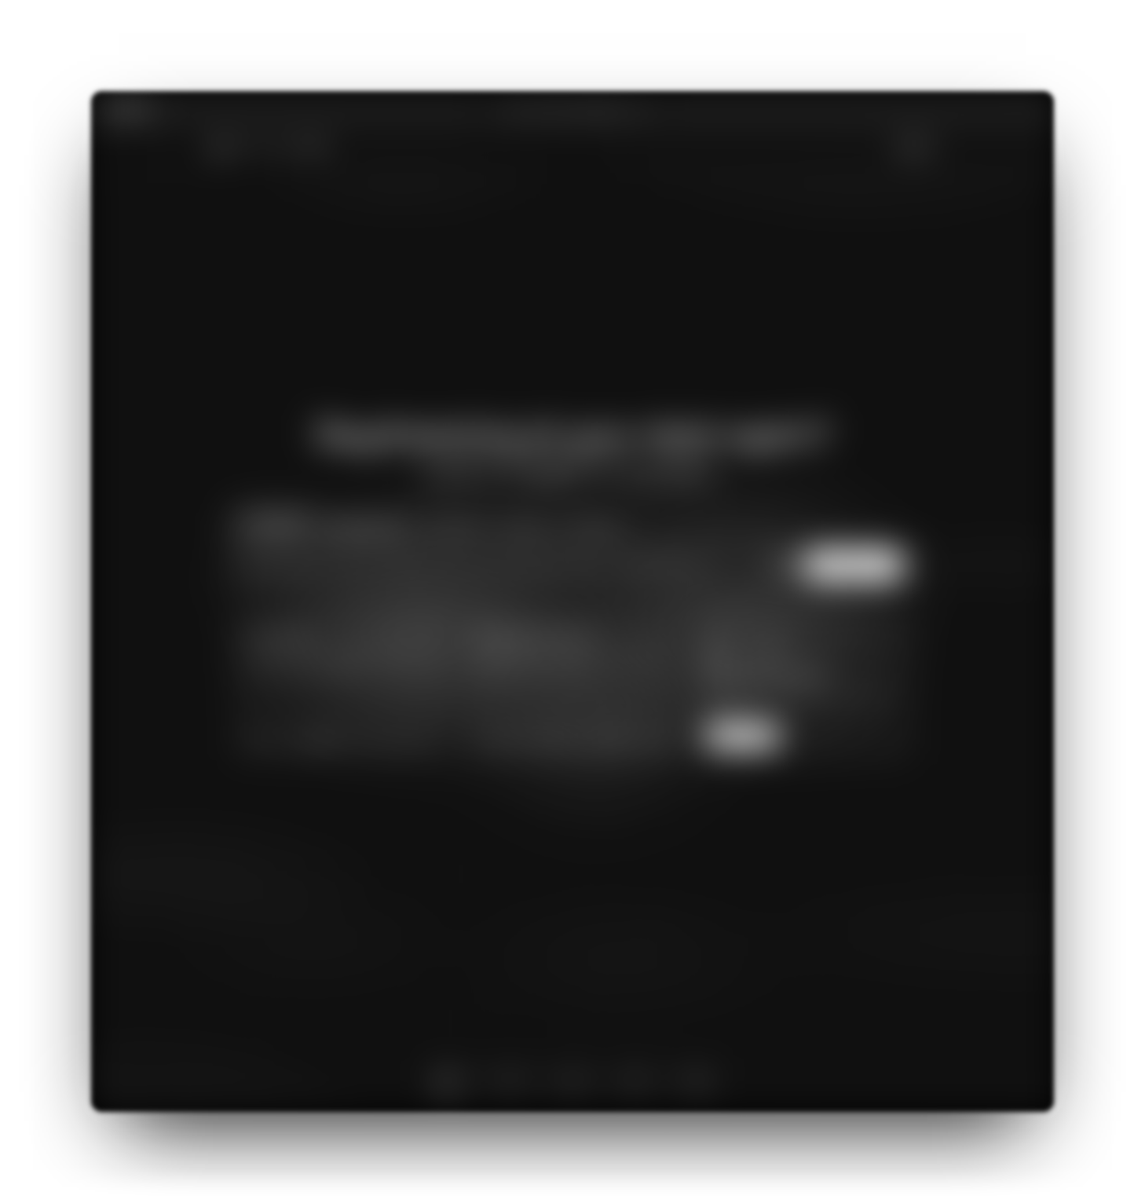
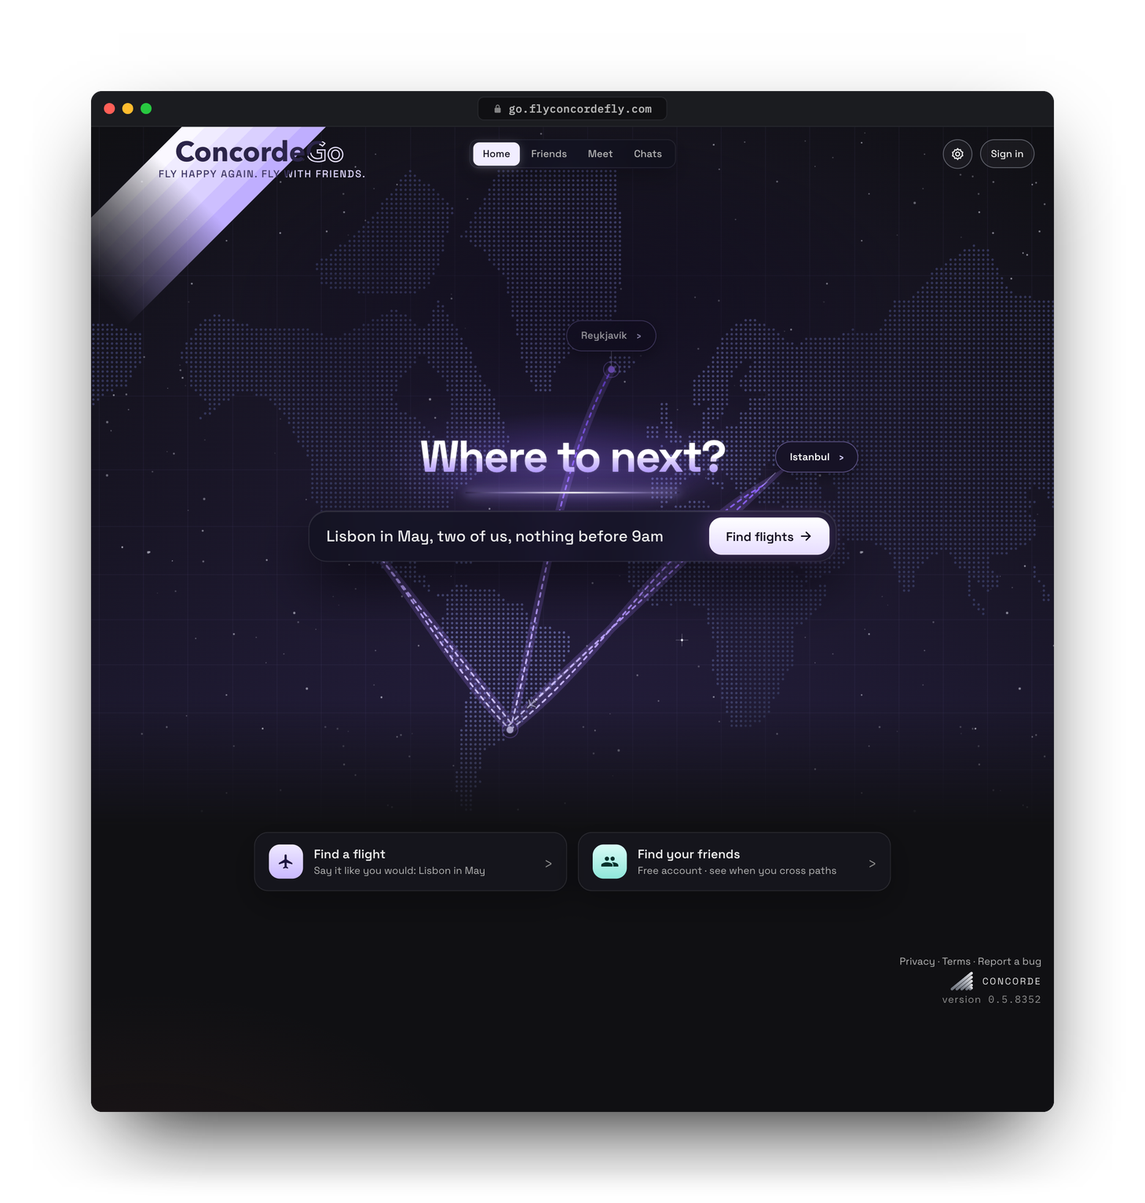
ConcordeGo is back on the site: the full card, with a real picture, what it does and its release notes
It was greyed out as coming soon since 10 Oct; it now sits above Lite with
Open ConcordeGo, the live version and its notes. The window is a fresh
signed-out capture of today's Home. make-shots.py now passes
--use-mock-keychain and a throwaway profile to Chrome.

diff --git a/index.html b/index.html
@@ -29,14 +29,14 @@
 <meta property="og:image:alt" content="The Concorde delta wing above the CONCORDE wordmark and the line Fly Concorde, Fly., with ConcordeAI, ConcordeVPN and ConcordeGo beneath.">
 <meta name="twitter:card" content="summary_large_image">
 <!-- What search engines read about the site: its name, and one entry per app.
-     Plain facts only; keep it true to the page (ConcordeGo proper is coming
-     soon, so only Lite is listed). -->
+     Plain facts only; keep it true to the page. -->
 <script type="application/ld+json">
 {"@context":"https://schema.org","@graph":[
- {"@type":"WebSite","@id":"https://flyconcordefly.com/#site","url":"https://flyconcordefly.com/","name":"Concorde","alternateName":["Fly Concorde Fly","flyconcordefly"],"description":"Concorde makes ConcordeAI, ConcordeVPN and ConcordeGo Lite.","publisher":{"@id":"https://flyconcordefly.com/#org"}},
+ {"@type":"WebSite","@id":"https://flyconcordefly.com/#site","url":"https://flyconcordefly.com/","name":"Concorde","alternateName":["Fly Concorde Fly","flyconcordefly"],"description":"Concorde makes ConcordeAI, ConcordeVPN and ConcordeGo.","publisher":{"@id":"https://flyconcordefly.com/#org"}},
  {"@type":"Organization","@id":"https://flyconcordefly.com/#org","name":"Concorde","url":"https://flyconcordefly.com/","logo":"https://flyconcordefly.com/apple-touch-icon.png","slogan":"Fly Concorde, Fly."},
  {"@type":"SoftwareApplication","name":"ConcordeAI","url":"https://flyconcordefly.com/#concordeai","applicationCategory":"UtilitiesApplication","operatingSystem":"macOS, Windows","description":"An AI chat app that runs on your own Mac or PC.","offers":{"@type":"Offer","price":"0","priceCurrency":"USD"},"publisher":{"@id":"https://flyconcordefly.com/#org"}},
  {"@type":"SoftwareApplication","name":"ConcordeVPN","url":"https://flyconcordefly.com/#concordevpn","applicationCategory":"SecurityApplication","operatingSystem":"macOS","description":"A menu-bar VPN client for your own exit node.","offers":{"@type":"Offer","price":"0","priceCurrency":"USD"},"publisher":{"@id":"https://flyconcordefly.com/#org"}},
+ {"@type":"WebApplication","name":"ConcordeGo","url":"https://go.flyconcordefly.com/","applicationCategory":"TravelApplication","operatingSystem":"Any browser","description":"Flight search that ranks flights by what the trip really costs, with friends and meet-ups along the way.","offers":{"@type":"Offer","price":"0","priceCurrency":"USD"},"publisher":{"@id":"https://flyconcordefly.com/#org"}},
  {"@type":"WebApplication","name":"ConcordeGo Lite","url":"https://go.flyconcordefly.com/lite","applicationCategory":"TravelApplication","operatingSystem":"Any browser","description":"Say where you need to be and get the earliest and the cheapest flights you can still make.","offers":{"@type":"Offer","price":"0","priceCurrency":"USD"},"publisher":{"@id":"https://flyconcordefly.com/#org"}}
 ]}
 </script>
@@ -1038,6 +1038,11 @@ footer .right{margin-left:auto;display:flex;gap:20px;flex-wrap:wrap}
                   <span class="file">ConcordeAI-7.0.0-Windows.zip</span>
                   <svg class="arw" width="11" height="11" viewBox="0 0 12 12" fill="none" aria-hidden="true"><path d="M6 1v9M2.4 6.6 6 10.2l3.6-3.6" stroke="currentColor" stroke-width="1.2" stroke-linecap="round" stroke-linejoin="round"/></svg>
                 </a>
+                <a class="btn" href="https://github.com/bigmillz/concordeai/releases/download/v280/ConcordeAI-7.0.0-x64.msi">
+                  <span class="os">Win msi</span>
+                  <span class="file">ConcordeAI-7.0.0-x64.msi</span>
+                  <svg class="arw" width="11" height="11" viewBox="0 0 12 12" fill="none" aria-hidden="true"><path d="M6 1v9M2.4 6.6 6 10.2l3.6-3.6" stroke="currentColor" stroke-width="1.2" stroke-linecap="round" stroke-linejoin="round"/></svg>
+                </a>
               </div>
               <p class="chan-note">First open on a Mac: System Settings &rsaquo; Privacy &amp; Security &rsaquo; Open Anyway. On Windows: More info &rsaquo; Run anyway.</p>
               <details class="sum notes">
@@ -1052,8 +1057,8 @@ footer .right{margin-left:auto;display:flex;gap:20px;flex-wrap:wrap}
               <div class="chan-top">
                 <span class="chan-name">Nightly</span>
                 <span class="chan-ver">7.0</span>
-                <span class="chan-commit" data-nightly-commit="ai" data-nightly-ver="7.0" data-commit-base="https://github.com/bigmillz/concordeai/commit/">build <a href="https://github.com/bigmillz/concordeai/commit/a5e9d79">a5e9d79</a></span>
-                <span class="chan-date">Built <time datetime="2026-11-10" data-nightly-date="ai">10 Nov 2026</time></span>
+                <span class="chan-commit" data-nightly-commit="ai" data-nightly-ver="7.0" data-commit-base="https://github.com/bigmillz/concordeai/commit/">build <a href="https://github.com/bigmillz/concordeai/commit/0196896">0196896</a></span>
+                <span class="chan-date">Built <time datetime="2026-11-11" data-nightly-date="ai">11 Nov 2026</time></span>
               </div>
               <div class="btns">
                 <a class="btn" href="https://github.com/bigmillz/concordeai/releases/download/nightly/ConcordeAI-7.0.0.dmg">
@@ -1070,7 +1075,7 @@ footer .right{margin-left:auto;display:flex;gap:20px;flex-wrap:wrap}
               <details class="sum notes">
                 <summary>Release notes</summary>
                 <div class="sum-body">
-<ul><li><b>Ultra</b> — switching to Ultra lands with a light rush, an edge flash and a star burst, and the slider knob stays put</li><li><b>Send button</b> — calmer, with no rings or hover glows and a crisp press</li><li><b>Backdrop</b> — the video fades through its loop without a visible seam, at the same pace on 60 Hz and 120 Hz displays</li><li class="more">Plus smaller fixes and polish &mdash; <a href="https://github.com/bigmillz/concordeai/releases">full notes on GitHub</a></li></ul>
+<ul><li>Gauntlet: switched back on, Pro seats exactly the server's models it seated before</li><li>NOTES 6b555: the header in one row, Settings and updates in it</li><li>The Horizon home bare: the recent-chat rows under the composer removed, code and all</li><li>Merge fluent-1 (16e75f8) into beta-3: NOTES keeps 6b555 and 6b570</li><li class="more">Plus 4 more changes &mdash; <a href="https://github.com/bigmillz/concordeai/releases">full notes on GitHub</a></li></ul>
                 </div>
               </details>
             </div>
@@ -1188,6 +1193,106 @@ footer .right{margin-left:auto;display:flex;gap:20px;flex-wrap:wrap}
           </div>
         </article>
 
+        <!-- ============ CARD: CONCORDEGO ============
+             Not a download: it runs at go.flyconcordefly.com. Hand-written,
+             except its Release notes list: sync-releases.py writes that
+             (between the releases:go markers, which stay at twenty spaces of
+             indent) from the builds go.flyconcordefly.com/changes lists,
+             summarized in the Action like the apps'.
+             Keep that list the card's only bare <ul> and its box the only
+             Release notes box: the script refuses a second one.
+             Its "BETA" is a .chan-ver, never a chan-name span: the script
+             refuses to write a page with a channel name outside the AI and
+             VPN markers.
+             The version and date are what go.flyconcordefly.com/version says
+             it is running: tools/sync-releases.py writes them here on every
+             sync, and worker.js rewrites [data-go-version] and
+             time[data-go-date] on every request (cached 5 minutes).
+             Back from "coming soon" on 2026-11-11 (per Pat: "push this to our
+             website"). The window is tools/windows/go-window.html round a
+             signed-out capture of the live Home; tools/README.md says how to
+             retake it. -->
+        <article class="card reveal" id="concordego" aria-labelledby="go-name">
+          <div class="stage">
+            <div class="stage-in">
+              <a class="shot" href="assets/shot-go.png">
+                <picture>
+                  <source srcset="assets/shot-go.webp" type="image/webp">
+                  <img src="assets/shot-go.png" width="1458" height="1532" loading="lazy" decoding="async"
+                       alt="ConcordeGo in a browser, in its dark theme: a world map with trip ideas, a search box with Lisbon in May, two of us, nothing before 9am typed in plain words, and tabs for Home, Friends, Meet and Chats.">
+                </picture>
+                <span class="visually-hidden">Enlarge</span>
+              </a>
+              <p class="how"><span class="label">In your browser</span>No download, no install.<br>Free: 5 searches a day, or 30 with a free&nbsp;account.</p>
+            </div>
+          </div>
+
+          <div class="card-main">
+            <div class="card-head">
+              <div class="row">
+                <svg class="wing" viewBox="2 2.3 19.6 16.4" aria-hidden="true" focusable="false"><g>
+                  <line x1="3.2" y1="17.5" x2="20.4" y2="3.5"/>
+                  <line x1="7.5" y1="17.5" x2="20.4" y2="7"/>
+                  <line x1="11.8" y1="17.5" x2="20.4" y2="10.5"/>
+                  <line x1="16.1" y1="17.5" x2="20.4" y2="14"/>
+                  <line x1="19.3" y1="17.5" x2="20.4" y2="16.6"/></g></svg>
+                <h3 id="go-name" class="lockup"><span class="mark-txt">Concorde<span class="tld">Go</span></span><video class="mark-hdr" data-mark="go" muted playsinline loop preload="none" aria-hidden="true"></video></h3>
+                <span class="chip label">Beta</span>
+              </div>
+              <p class="desc">Fly happy again. Fly with friends. Flights ranked by what the trip really costs, and the people you know along the way.</p>
+              <div class="plats label">
+                <span>Any browser</span>
+                <span>Desktop + phone</span>
+              </div>
+            </div>
+
+            <ul class="feats">
+              <li>
+                <span class="n">01</span>
+                <div><b>Say it in plain words</b><span class="d">Type or say the trip the way you would tell a friend: &ldquo;Lisbon in May, two of us, nothing before 9am&rdquo;.</span></div>
+              </li>
+              <li>
+                <span class="n">02</span>
+                <div><b>The real price, graded</b><span class="d">Every flight gets a grade and an all-in price: the ticket plus the bags the fare leaves out.</span></div>
+              </li>
+              <li>
+                <span class="n">03</span>
+                <div><b>Friends and meet-ups</b><span class="d">See when friends cross your path, message them, and meet up at the airports on your trip.</span></div>
+              </li>
+              <li>
+                <span class="n">04</span>
+                <div><b>Your trips, on the day</b><span class="d">Forward a booking email and it becomes a trip, with live flight status, a leave-by reminder and the Flight Fixer when plans change.</span></div>
+              </li>
+            </ul>
+
+            <div class="dl go-dl">
+              <div class="chan">
+                <div class="chan-top">
+                  <span class="chan-ver">BETA</span>
+                  <span class="chan-commit" data-go-vline>version <span data-go-version>0.5.8352</span></span>
+                  <span class="chan-date">Updated <time datetime="2026-11-10" data-go-date>10 Nov 2026</time></span>
+                </div>
+                <div class="btns">
+                  <a class="btn open" href="https://go.flyconcordefly.com/" target="_blank" rel="noopener">
+                    <span class="os">Open ConcordeGo</span>
+                    <span class="file">go.flyconcordefly.com</span>
+                    <svg class="arw" width="11" height="11" viewBox="0 0 12 12" fill="none" aria-hidden="true"><path d="M3 9 9.2 2.8M4 2.6h5.4V8" stroke="currentColor" stroke-width="1.2" stroke-linecap="round" stroke-linejoin="round"/></svg>
+                    <span class="visually-hidden">(opens in a new tab)</span>
+                  </a>
+                </div>
+                <details class="sum notes">
+                  <summary>Release notes</summary>
+                  <div class="sum-body">
+                    <!-- releases:go -->
+<ul><li>A simpler Home with only your trips and what's new by default, and tabs that slide</li><li>A new desktop Home built around a live map of your trip and your friends, in testing; results now lead with "Top pick"</li><li>An optional person check on sign-in and searches; Confirm before adding a friend or joining a group from a link</li><li>Keep your boarding pass in your trip: add a screenshot, photo or PDF</li><li class="more">Plus more changes</li></ul>
+                    <!-- /releases:go -->
+                  </div>
+                </details>
+              </div>
+            </div>
+          </div>
+        </article>
+
         <!-- ============ CARD: CONCORDEGO LITE ============
              ConcordeGo's quick page, go.flyconcordefly.com/lite: part of the
              same app, so the same build, version and date (the Worker and
@@ -1271,79 +1376,6 @@ footer .right{margin-left:auto;display:flex;gap:20px;flex-wrap:wrap}
                     <span class="visually-hidden">(opens in a new tab)</span>
                   </a>
                 </div>
-              </div>
-            </div>
-          </div>
-        </article>
-
-        <!-- ============ CARD: CONCORDEGO (coming soon) ============
-             The full ConcordeGo is being rebuilt behind closed doors (Pat,
-             2026-10-10: blur it and gray it out so nobody can lift the idea);
-             ConcordeGo Lite, above, stays available. Nothing real is on this
-             card on purpose: the picture is a window image blurred into the
-             pixels (assets/shot-go.*, no longer made by make-shots.py; the
-             readable capture is out of the tree), the feature rows are empty
-             bars, and the notes list is a fixed "Coming soon" line, written
-             by tools/sync-releases.py while GO_COMING_SOON is set there. CSS
-             blur alone would leave the words in the page source, so do not
-             "restore" the old copy under a filter. The script still wants
-             the releases:go markers, one notes list and one Release notes
-             box inside this card, so they stay. -->
-        <article class="card reveal soon-card" id="concordego" aria-labelledby="go-name">
-          <div class="soon-badge" role="note"><span class="label">Coming soon</span></div>
-          <div class="stage">
-            <div class="stage-in">
-              <div class="shot shot-soon" aria-hidden="true">
-                <picture>
-                  <source srcset="assets/shot-go.webp" type="image/webp">
-                  <img src="assets/shot-go.png" width="1458" height="1532" loading="lazy" decoding="async" alt="">
-                </picture>
-              </div>
-              <p class="how" aria-hidden="true"><span class="label">In your browser</span><span class="bar"></span></p>
-            </div>
-          </div>
-
-          <div class="card-main">
-            <div class="card-head">
-              <div class="row">
-                <svg class="wing" viewBox="2 2.3 19.6 16.4" aria-hidden="true" focusable="false"><g>
-                  <line x1="3.2" y1="17.5" x2="20.4" y2="3.5"/>
-                  <line x1="7.5" y1="17.5" x2="20.4" y2="7"/>
-                  <line x1="11.8" y1="17.5" x2="20.4" y2="10.5"/>
-                  <line x1="16.1" y1="17.5" x2="20.4" y2="14"/>
-                  <line x1="19.3" y1="17.5" x2="20.4" y2="16.6"/></g></svg>
-                <h3 id="go-name" class="lockup"><span class="mark-txt">Concorde<span class="tld">Go</span></span><video class="mark-hdr" data-mark="go" muted playsinline loop preload="none" aria-hidden="true"></video></h3>
-                <span class="chip label">Coming soon</span>
-              </div>
-              <p class="desc">The full ConcordeGo is coming soon. ConcordeGo Lite, above, is available now.</p>
-            </div>
-
-            <ul class="feats" aria-hidden="true">
-              <li><span class="n">01</span><div><b class="bar"></b><span class="bar d"></span><span class="bar d s"></span></div></li>
-              <li><span class="n">02</span><div><b class="bar"></b><span class="bar d"></span><span class="bar d s"></span></div></li>
-              <li><span class="n">03</span><div><b class="bar"></b><span class="bar d"></span><span class="bar d s"></span></div></li>
-              <li><span class="n">04</span><div><b class="bar"></b><span class="bar d"></span><span class="bar d s"></span></div></li>
-            </ul>
-
-            <div class="dl go-dl" aria-hidden="true">
-              <div class="chan">
-                <div class="chan-top">
-                  <span class="chan-ver">SOON</span>
-                </div>
-                <div class="btns">
-                  <span class="btn open">
-                    <span class="os">Open ConcordeGo</span>
-                    <span class="file">coming soon</span>
-                  </span>
-                </div>
-                <details class="sum notes">
-                  <summary>Release notes</summary>
-                  <div class="sum-body">
-                    <!-- releases:go -->
-<ul><li class="more">Coming soon</li></ul>
-                    <!-- /releases:go -->
-                  </div>
-                </details>
               </div>
             </div>
           </div>

diff --git a/tools/windows/go-window.html b/tools/windows/go-window.html
@@ -1,0 +1,29 @@
+<!doctype html><html><head><meta charset="utf-8">
+<title>ConcordeGo Window</title>
+<!-- A browser frame round go-capture.png, a signed-out capture of the live
+     ConcordeGo Home (go.flyconcordefly.com) in its dark theme, with a trip typed
+     into the search box (typed, never searched). The same frame as
+     lite-window.html; tools/README.md says how to retake the capture.
+     shot-go stays 1458x1532. -->
+<link href="https://fonts.googleapis.com/css2?family=IBM+Plex+Mono:wght@400;500&family=Space+Grotesk:wght@400;500&display=swap" rel="stylesheet">
+<style>
+html,body{margin:0;background:transparent}
+body{display:grid;place-items:center;min-height:100vh;padding:40px;box-sizing:border-box}
+.win{width:1050px;height:1113px;border-radius:12px;overflow:hidden;display:flex;flex-direction:column;
+  background:#101013;box-shadow:0 40px 90px -30px rgba(0,0,0,.95),0 0 0 1px rgba(255,255,255,.04)}
+.titlebar{height:38px;flex:0 0 38px;background:#1b1c20;display:flex;align-items:center;padding:0 14px;position:relative;
+  border-bottom:1px solid #26272c}
+.lights{display:flex;gap:8px}.lights i{width:12px;height:12px;border-radius:50%;display:block}
+.l1{background:#ff5f57}.l2{background:#febc2e}.l3{background:#28c840}
+/* a browser, not an app: the URL is the title */
+.url{position:absolute;left:50%;transform:translateX(-50%);display:flex;align-items:center;gap:7px;
+  height:24px;padding:0 16px;border-radius:7px;background:#101013;border:1px solid #26272c;
+  font:500 12px/1 'IBM Plex Mono',ui-monospace,monospace;color:#b4b4b4;letter-spacing:.02em}
+.url svg{width:10px;height:10px;opacity:.7}
+.page{flex:1;min-height:0;background:#101013 url(go-capture.png) top center/1050px auto no-repeat}
+</style></head><body>
+<div class="win">
+  <div class="titlebar"><div class="lights"><i class="l1"></i><i class="l2"></i><i class="l3"></i></div>
+    <div class="url"><svg viewBox="0 0 10 12" fill="none"><rect x="1" y="5" width="8" height="6.5" rx="1.2" fill="#b4b4b4"/><path d="M3 5V3.5a2 2 0 0 1 4 0V5" stroke="#b4b4b4" stroke-width="1.2"/></svg>go.flyconcordefly.com</div></div>
+  <div class="page"></div>
+</div></body></html>

diff --git a/tools/make-shots.py b/tools/make-shots.py
@@ -52,6 +52,7 @@ OPAQUE = 250     # alpha at or above this is window; below is shadow or air
 SOURCES = {
     "ai":  ("ai-window.html",  (1400, 1520)),
     "vpn": ("vpn-window.html", (780, 960)),
+    "go":  ("go-window.html",  (1470, 1600)),   # a browser frame round go-capture.png
     "lite": ("lite-window.html", (1470, 1600)),  # the same frame round lite-capture.png
 }
 
@@ -61,6 +62,7 @@ def capture(html, size, out):
     # without it the window silently renders in a fallback face.
     r = subprocess.run([
         CHROME, "--headless=new", "--disable-gpu", "--hide-scrollbars",
+        "--use-mock-keychain", "--user-data-dir=%s" % os.path.join(os.path.dirname(out), "profile"),
         "--force-device-scale-factor=2", "--default-background-color=00000000",
         "--virtual-time-budget=9000", "--screenshot=%s" % out,
         "--window-size=%d,%d" % size, "file://%s" % html,

diff --git a/tools/sync-releases.py b/tools/sync-releases.py
@@ -549,7 +549,7 @@ def cached_notes(repo, kind, items, link=True):
 # card's notes are a fixed "Coming soon" line, and only changes that name Lite
 # go into the store, the summaries and What's new: nothing about the rest is
 # written into this public repo. Turn it off to bring the full card's notes back.
-GO_COMING_SOON = True
+GO_COMING_SOON = False   # the full card came back on 2026-11-11 (per Pat)
 GO_SOON_NOTES = '<ul><li class="more">Coming soon</li></ul>'
 GO_LITE_CHANGE = re.compile(r"\blite\b", re.I)
 

diff --git a/tools/README.md b/tools/README.md
@@ -298,8 +298,8 @@ label is out of date.
 ## The product windows
 
 Each product card shows one window: `windows/ai-window.html`,
-`windows/vpn-window.html` and `windows/lite-window.html` (ConcordeGo's own
-window is retired while it is coming soon, below). The first two are
+`windows/vpn-window.html`, `windows/go-window.html` and
+`windows/lite-window.html`. The first two are
 the apps' own UIs, rebuilt as static HTML from each app's real page (its
 markup and its own CSS rules, with fake data) rather than screenshots of
 whatever happened to be on screen. They are HTML so they stay crisp at any
@@ -312,9 +312,8 @@ window is the main window as ConcordeVPN 1.5 draws it, 460x590: connected
 through New York, Balanced, with the speed card and the Mode and Exit rows. It
 is a capture of the app's real page (see "Retaking `windows/vpn-capture.png`").
 ConcordeGo is a website, so its window is a plain browser frame round a
-capture of the live app. ConcordeGo Lite's (the address bar reads
-go.flyconcordefly.com/lite) is `windows/lite-capture.png`; the full ConcordeGo's
-is retired for now (below).
+capture of the live app. ConcordeGo's is `windows/go-capture.png` and ConcordeGo Lite's (the address
+bar reads go.flyconcordefly.com/lite) is `windows/lite-capture.png`.
 
 Three rules they exist to enforce:
 
@@ -424,21 +423,27 @@ and in `SOURCES` (the capture window, 960). Then crop the screenshot to
 The page's top 32px is the app's own empty titlebar strip; the window file
 draws the real chrome over it.
 
-### The ConcordeGo card is "coming soon" (2026-10-10)
+### Retaking `windows/go-capture.png`
 
-The full ConcordeGo is hidden on purpose (Pat: blur and gray it so nobody can
-lift the idea; ConcordeGo Lite stays available). `assets/shot-go.png/.webp`
-is now a window image with a heavy gray blur baked into the pixels, made once
-from the last real capture and **no longer generated**: `make-shots.py` has no
-`go` entry, and the readable capture and window file are out of the tree (they
-remain in git history; the repository is public). The card in `index.html` has
-no real copy (empty bars, a fixed "Coming soon" notes line), and
-`sync-releases.py` keeps it that way while `GO_COMING_SOON` is set: the Go
-notes are the fixed line, and only changes that mention Lite are stored,
-summarized or shown in What's new. To bring the full card back: restore the
-card from git history (the commit before "ConcordeGo, coming soon"), set
-`GO_COMING_SOON = False`, re-take a capture (the recipe is in that commit's
-README) and put the `go` entry back in `SOURCES`.
+The full ConcordeGo card was "coming soon" from 2026-10-10 (blurred, grayed,
+no real copy) and came back on 2026-11-11 (per Pat: "push this to our
+website"); `GO_COMING_SOON` in `sync-releases.py` is now False and is the
+switch to hide it again. The capture is the live Home, signed out, in the
+**dark theme**, with the opening animation and the welcome skipped and a trip
+typed into the search box (typed, never searched, so it spends nothing). It is
+a 1240x1270 CSS px viewport at a device scale of 1.6935484, so the PNG is
+2100x2150 px, exactly the page area of `go-window.html` at 2x. Set these in
+the fresh browser profile before the page loads (Chrome DevTools
+`Page.addScriptToEvaluateOnNewDocument`), then type into `#bhq`:
+
+    localStorage.setItem('concordego.theme', 'dark');
+    sessionStorage.setItem('concordego.splashed', '1');
+    sessionStorage.setItem('concordego.welcome', '1');
+    localStorage.setItem('concordego.welcome', '1');
+
+Crop to 2100x2150 into `tools/windows/go-capture.png` and run
+`make-shots.py`. Look at it first: Sign in at the top right and nothing about
+an account, no email, admin link or searches count anywhere.
 
 ### Checking a layout
 
